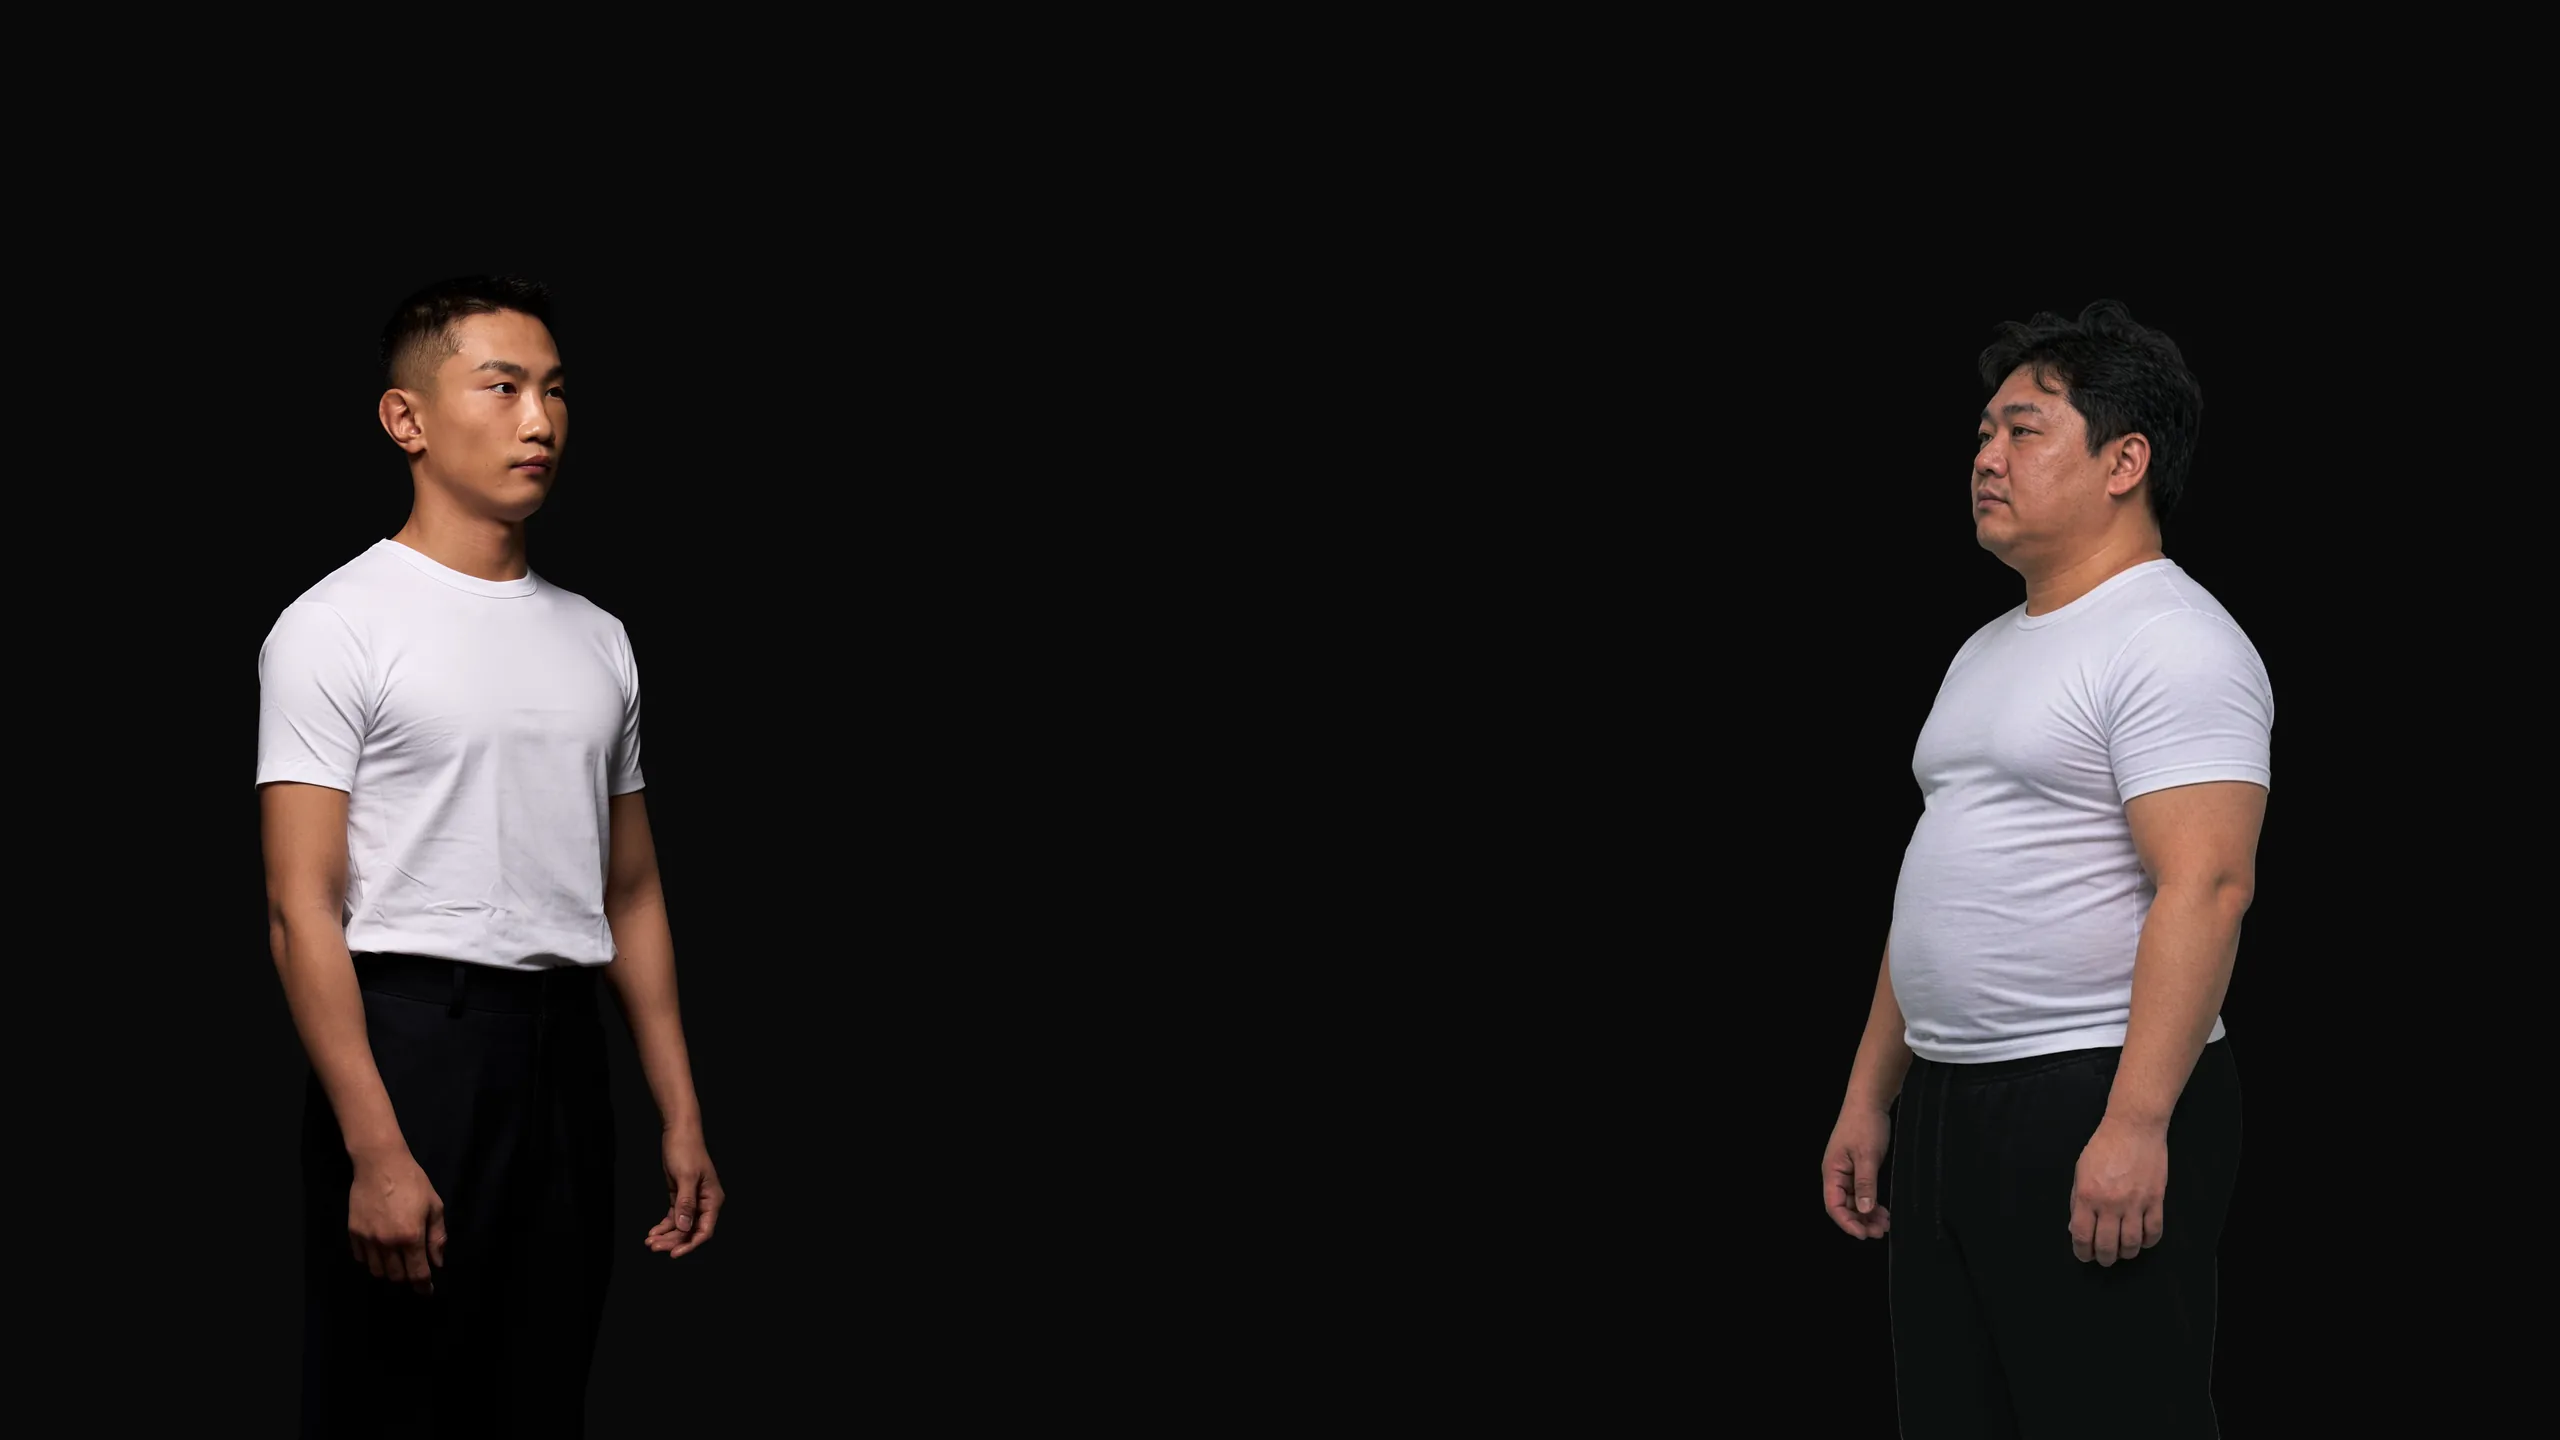
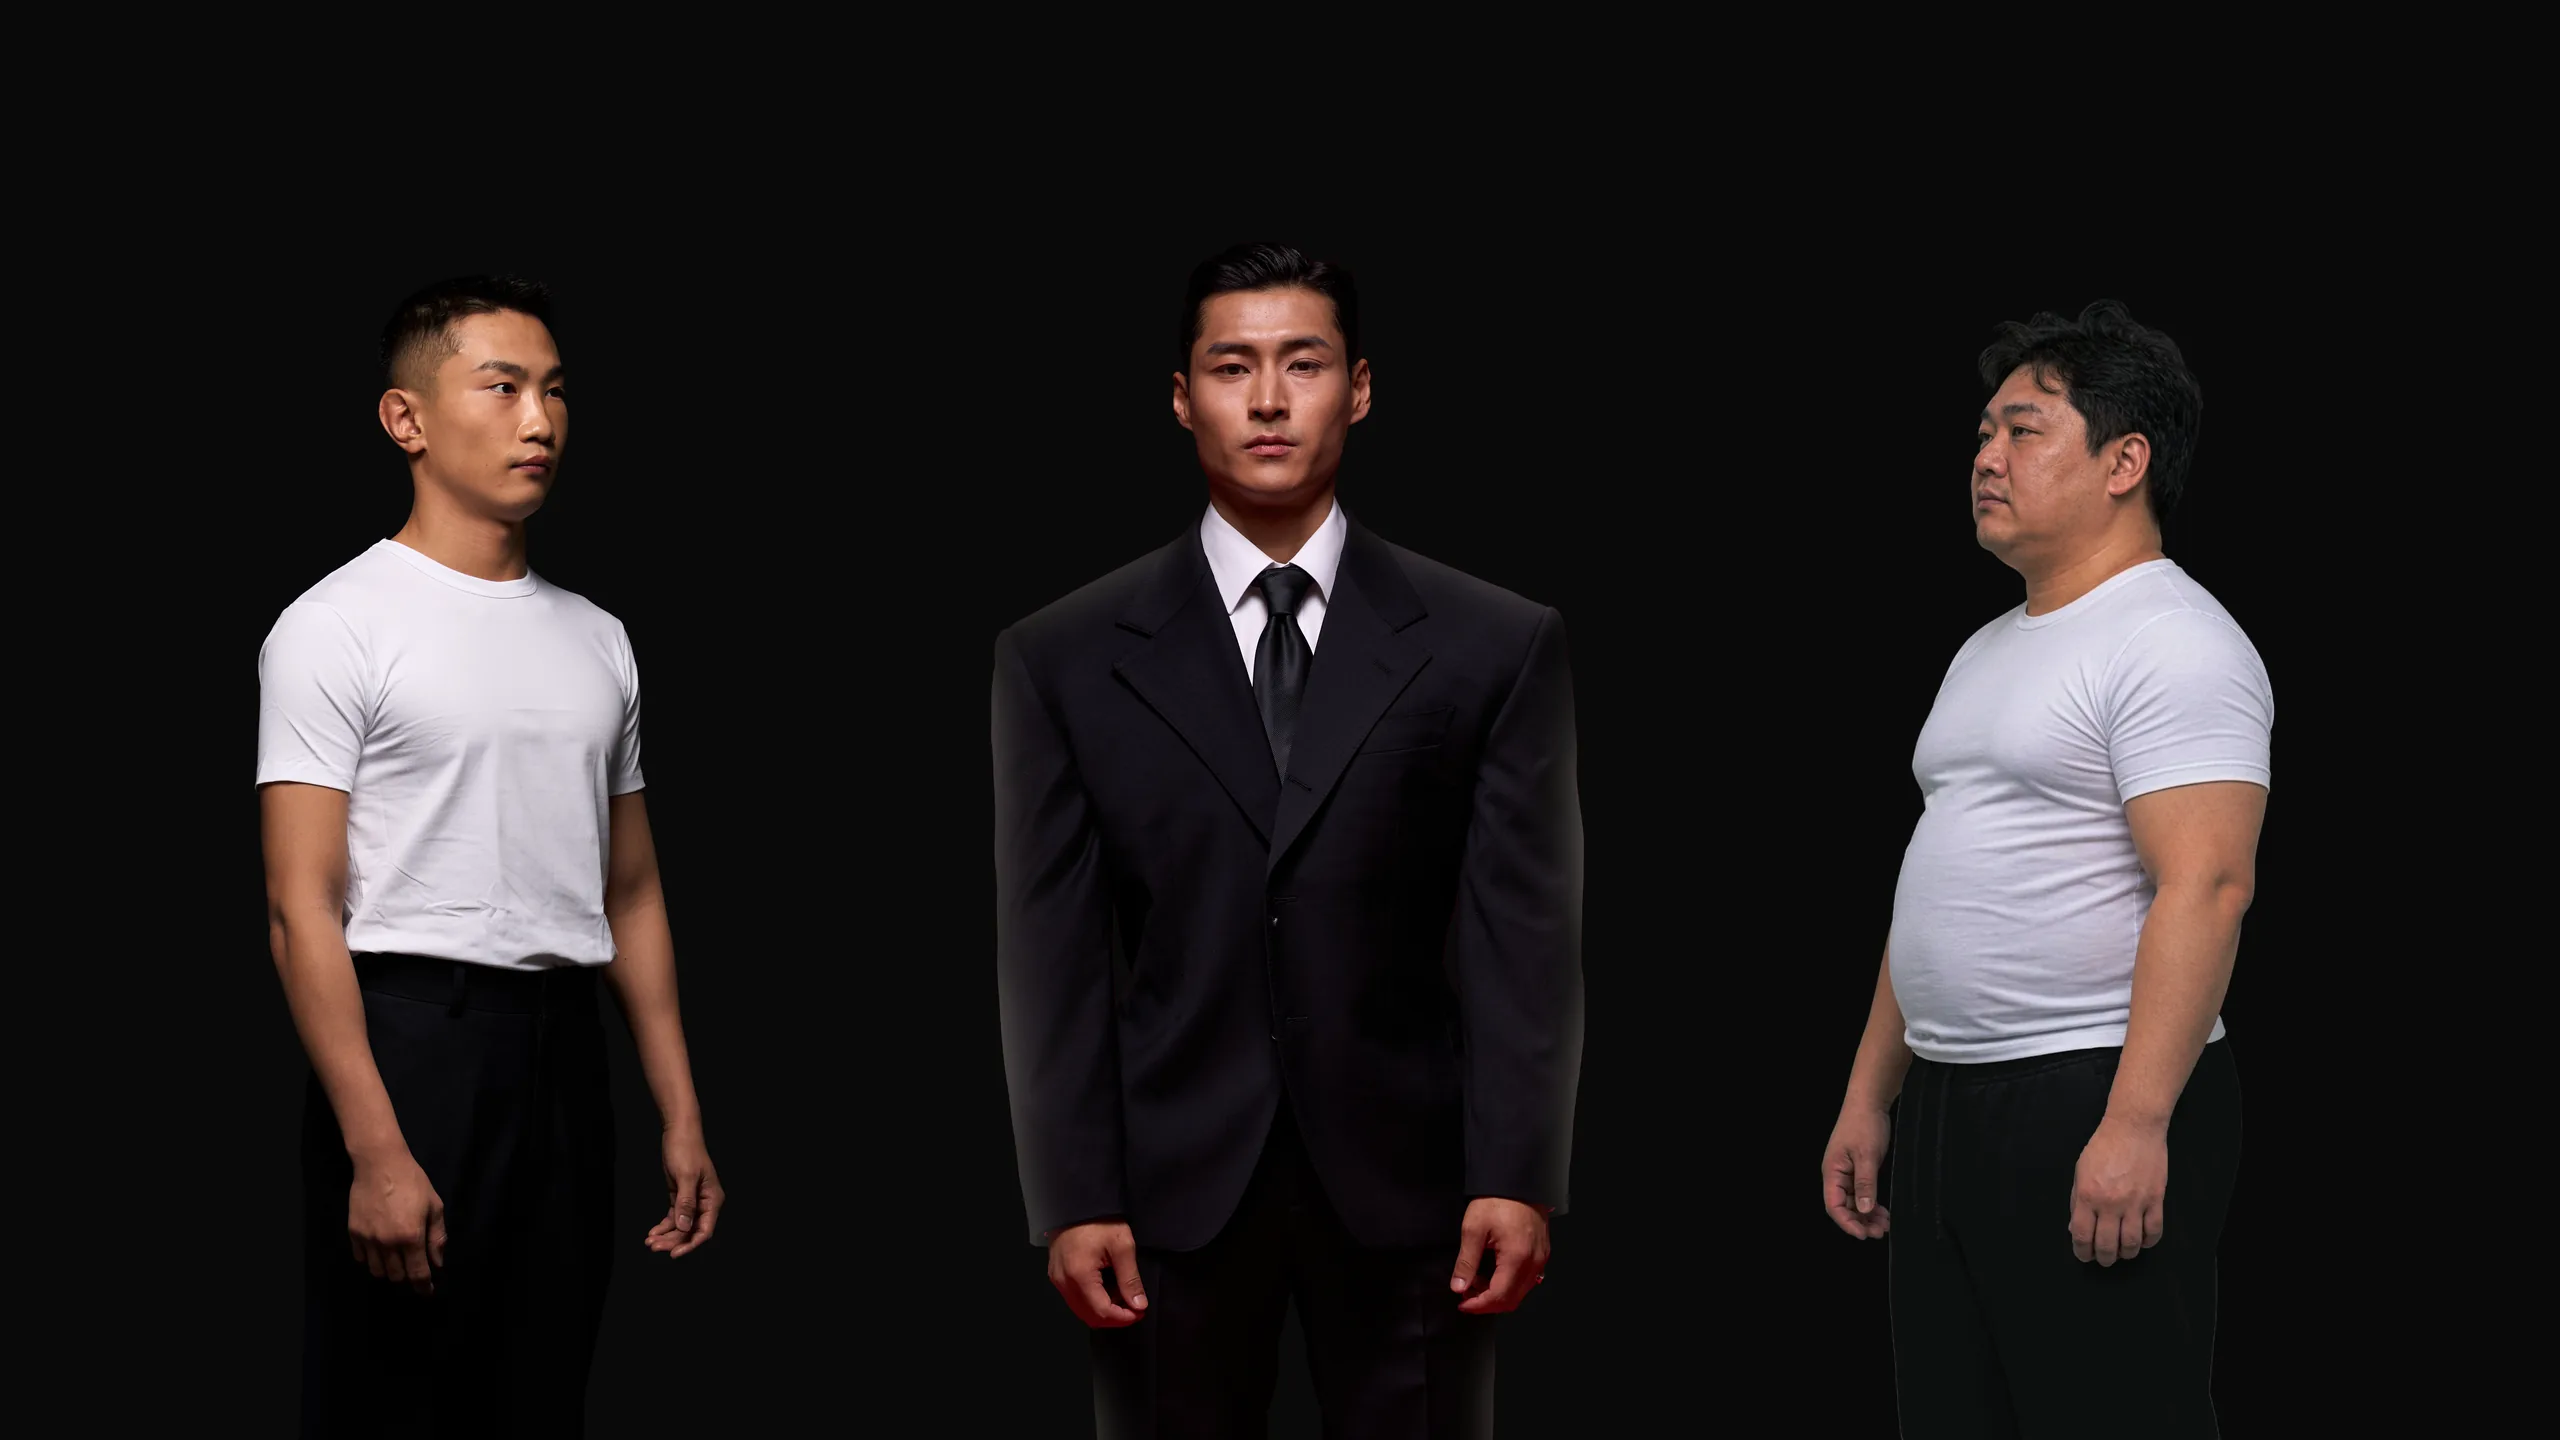
메인 체형 장면 가운데 인물 — 합본의 정장 모습을 넣고 가운데 화살표(어깨 넓이 · 허리)를 켬
가운데 인물의 맨몸 사진이 없어 합본(배경 #090909 단색)의 가운데 부분을 그대로 옮겼다. 맨몸 사진이 오면 바꾼다.

diff --git a/src/data/story.ts b/src/data/story.ts
@@ -157,16 +157,17 @@ export const MAIN_HERO = {
 /*
  * 사진 — 2026-11-09 고객 원본(「더맨리 메인 이미지」 10614 × 5970, 배경 #090909). 2560 × 1440 webp 로 줄여 public/brand/body 에 둔다.
  *   suits.webp   세 사람 정장 합본 그대로
- *   bodies.webp  같은 배경색 위에 좌측 · 우측 맨몸 레이어를 얹은 것 — 레이어가 합본과 같은 자리라 바뀔 때 사람이 튀지 않는다
- * TODO(고객확인) 가운데 인물의 맨몸 사진이 아직 없다. 오면 bodies.webp 에 얹고 centerBodyPending 을 false 로.
+ *   bodies.webp  같은 배경색 위에 좌측 · 우측 맨몸 레이어를 얹고, 가운데 인물은 합본의 정장 모습을 그대로 옮겼다
+ *                (2026-11-10 "가운데 인물도 넣어 달라" — 가운데 맨몸 사진이 없어 정장으로). 레이어가 합본과 같은 자리라 바뀔 때 사람이 튀지 않는다
+ * TODO(고객확인) 가운데 인물의 맨몸 사진이 오면 bodies.webp 의 가운데를 바꾼다.
  */
 export const BODY_STORY = {
   /** ①② 세 체형 — 마른 체형 · 운동 체형(가운데) · 넉넉한 체형 을 한 장에 */
-  bodies: { image: "/brand/body/bodies.webp" as string | null, alt: "마른 체형과 배가 나온 체형의 남성이 흰 티셔츠 차림으로 마주 서 있다" },
+  bodies: { image: "/brand/body/bodies.webp" as string | null, alt: "흰 티셔츠 차림의 마른 체형 남성과 배가 나온 체형 남성 사이에, 어깨가 넓은 남성이 정장을 입고 서 있다" },
   /** ③④ 같은 세 사람이 맞춤 수트를 입은 사진 */
   suits: { image: "/brand/body/suits.webp" as string | null, alt: "마른 체형, 운동으로 상체가 커진 체형, 배가 나온 체형의 세 남성이 각자의 체형에 맞춘 수트를 입고 서 있다" },
-  /** 가운데 인물 맨몸 사진이 아직 없다 — 그동안 ①② 장면의 가운데는 비우고 가운데 화살표도 숨긴다 */
-  centerBodyPending: true,
+  /** 가운데 인물 사진이 없으면 true — ①② 장면의 가운데 화살표를 숨긴다. 지금은 합본의 정장 모습을 넣어 false */
+  centerBodyPending: false,
   bodiesTitle: "Various Body Types",
   fitTitle: "Custom Fit",
   /** ④ 설명 글. TODO(고객확인) 디자이너 문구가 오면 바꾼다 */

diff --git a/src/components/home/BodyStory.tsx b/src/components/home/BodyStory.tsx
@@ -107,9 +107,9 @@ function Arrows({ className, center, mobile = false }: { className: string; cent
         {center && (
           <>
             {/* 가운데 — 넓은 어깨 */}
-            <path d="M385 235 L615 235" markerStart={`url(#${id})`} markerEnd={`url(#${id})`} />
+            <path d="M380 230 L625 230" markerStart={`url(#${id})`} markerEnd={`url(#${id})`} />
             {/* 가운데 — 좁은 허리 */}
-            <path d="M430 440 C470 465 530 465 570 440" markerStart={`url(#${id})`} markerEnd={`url(#${id})`} />
+            <path d="M432 418 C470 445 530 445 568 418" markerStart={`url(#${id})`} markerEnd={`url(#${id})`} />
           </>
         )}
         {/* 오른쪽 — 나온 배 */}
